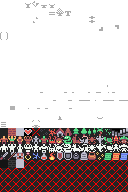
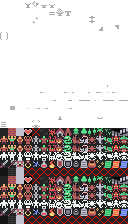
add (idle) animation

diff --git a/game/map_objects/game_map.py b/game/map_objects/game_map.py
@@ -29,7 +29,7 @@ class GameMap:
 
         return tiles
 
-    def make_map(self, max_rooms, room_min_size, room_max_size, map_width, map_height, player, entities):
+    def make_map(self, max_rooms, room_min_size, room_max_size, map_width, map_height, player, entities, fcd):
         rooms = []
         num_rooms = 0
 
@@ -84,14 +84,14 @@ class GameMap:
                         self.create_v_tunnel(prev_y, new_y, prev_x)
                         self.create_h_tunnel(prev_x, new_x, new_y)
 
-                self.place_entities(new_room, entities)
+                self.place_entities(new_room, entities, fcd)
 
                 # finally, append the new room to the list
                 rooms.append(new_room)
                 num_rooms += 1
 
         stairs_component = Stairs(self.dungeon_level + 1)
-        down_stairs = Entity(center_of_last_room_x, center_of_last_room_y, STAIRS_DOWN, 'Stairs', render_order=RenderOrder.STAIRS, stairs=stairs_component)
+        down_stairs = Entity(center_of_last_room_x, center_of_last_room_y, [STAIRS_DOWN], 'Stairs', fcd, render_order=RenderOrder.STAIRS, stairs=stairs_component)
         entities.append(down_stairs)
 
     def create_room(self, room):
@@ -111,7 +111,7 @@ class GameMap:
             self.tiles[x][y].blocked = False
             self.tiles[x][y].block_sight = False
 
-    def place_entities(self, room, entities):
+    def place_entities(self, room, entities, fcd):
         max_monsters_per_room = from_dungeon_level([[2, 1], [3, 4], [5, 6]], self.dungeon_level)
         max_items_per_room = from_dungeon_level([[1, 1], [2, 4]], self.dungeon_level)
 
@@ -142,11 +142,11 @@ class GameMap:
                 if monster_choice == 'orc':
                     fighter_component = Fighter(hp=20, defense=0, power=4, xp=35)
                     ai_component = BasicMonster()
-                    monster = Entity(x, y, ORC, 'Orc', blocks=True, render_order=RenderOrder.ACTOR, fighter=fighter_component, ai=ai_component)
+                    monster = Entity(x, y, [ORC, ORC + 16], 'Orc', fcd, blocks=True, render_order=RenderOrder.ACTOR, fighter=fighter_component, ai=ai_component)
                 else:
                     fighter_component = Fighter(hp=30, defense=2, power=8, xp=100)
                     ai_component = BasicMonster()
-                    monster = Entity(x, y, SKELETON, 'Skeleton', blocks=True, render_order=RenderOrder.ACTOR, fighter=fighter_component, ai=ai_component)
+                    monster = Entity(x, y, [SKELETON, SKELETON + 16], 'Skeleton', fcd, blocks=True, render_order=RenderOrder.ACTOR, fighter=fighter_component, ai=ai_component)
 
                 entities.append(monster)
 
@@ -158,22 +158,22 @@ class GameMap:
                 item_choice = random_choice_from_dict(item_chances)
                 if item_choice == 'healing_potion':
                     item_component = Item(use_function=heal, amount=40)
-                    item = Entity(x, y, HEALING_POT, 'Healing Potion', render_order=RenderOrder.ITEM, item=item_component)
+                    item = Entity(x, y, [HEALING_POT], 'Healing Potion', fcd, render_order=RenderOrder.ITEM, item=item_component)
                 elif item_choice == 'sword':
                     equippable_component = Equippable(EquipmentSlots.MAIN_HAND, power_bonus=3)
-                    item = Entity(x, y, SWORD, 'Sword', equippable=equippable_component)
+                    item = Entity(x, y, [SWORD], 'Sword', fcd, equippable=equippable_component)
                 elif item_choice == 'shield':
                     equippable_component = Equippable(EquipmentSlots.OFF_HAND, defense_bonus=1)
-                    item = Entity(x, y, SHIELD, 'Shield', equippable=equippable_component)
+                    item = Entity(x, y, [SHIELD], 'Shield', fcd, equippable=equippable_component)
                 elif item_choice == 'fireball_scroll':
                     item_component = Item(use_function=cast_fireball, targeting=True, targeting_message=Message('Left-click a target tile for the fireball, or right-click to cancel.', libtcod.Color(134,167,237)), damage=25, radius=3)
-                    item = Entity(x, y, FIRE_SCROLL, 'Fireball Scroll', render_order=RenderOrder.ITEM, item=item_component)
+                    item = Entity(x, y, [FIRE_SCROLL], 'Fireball Scroll', fcd, render_order=RenderOrder.ITEM, item=item_component)
                 elif item_choice == 'confusion_scroll':
                     item_component = Item(use_function=cast_confuse, targeting=True, targeting_message=Message( 'Left-click an enemy to confuse it, or right-click to cancel.', libtcod.Color(134,167,237)))
-                    item = Entity(x, y, CONF_SCROLL, 'Confusion Scroll', render_order=RenderOrder.ITEM, item=item_component)
+                    item = Entity(x, y, [CONF_SCROLL], 'Confusion Scroll', fcd, render_order=RenderOrder.ITEM, item=item_component)
                 else:
                     item_component = Item(use_function=cast_lightning, damage=40, maximum_range=5)
-                    item = Entity(x, y, LIGHT_SCROLL, 'Lightning Scroll', render_order=RenderOrder.ITEM, item=item_component)
+                    item = Entity(x, y, [LIGHT_SCROLL], 'Lightning Scroll', fcd, render_order=RenderOrder.ITEM, item=item_component)
 
                 entities.append(item)
 
@@ -186,9 +186,10 @@ class GameMap:
     def next_floor(self, player, message_log, constants):
         self.dungeon_level += 1
         entities = [player]
+        fcd = constants['frame_cycle_duration']
 
         self.tiles = self.initialize_tiles()
-        self.make_map(constants['max_rooms'], constants['room_min_size'], constants['room_max_size'], constants['map_width'], constants['map_height'], player, entities)
+        self.make_map(constants['max_rooms'], constants['room_min_size'], constants['room_max_size'], constants['map_width'], constants['map_height'], player, entities, fcd)
 
         player.fighter.heal(player.fighter.max_hp // 2)
 

diff --git a/game/render_functions.py b/game/render_functions.py
@@ -42,7 +42,7 @@ def render_health(panel, x, y, name, value, maximum, good_color, ok_color, bad_c
     libtcod.console_print_ex(panel, x + 6, y, libtcod.BKGND_NONE, libtcod.LEFT, '{}'.format(maximum))
     libtcod.console_set_default_foreground(panel, default_color)
 
-def render_all(con, panel, entities, player, game_map, fov_map, message_log, screen_width, screen_height, panel_height, panel_y, mouse, game_state):
+def render_all(con, panel, entities, player, game_map, fov_map, message_log, screen_width, screen_height, panel_height, panel_y, mouse, game_state, current_frame_time):
     for y in range(game_map.height):
         for x in range(game_map.width):
             visible = libtcod.map_is_in_fov(fov_map, x, y)
@@ -56,14 +56,14 @@ def render_all(con, panel, entities, player, game_map, fov_map, message_log, scr
                 game_map.tiles[x][y].explored = True
             elif game_map.tiles[x][y].explored:
                 if wall:
-                    libtcod.console_put_char(con, x, y, WALL + 64, libtcod.BKGND_NONE)
+                    libtcod.console_put_char(con, x, y, WALL + 80, libtcod.BKGND_NONE)
                 else:
-                    libtcod.console_put_char(con, x, y, FLOOR + 64, libtcod.BKGND_NONE)
+                    libtcod.console_put_char(con, x, y, FLOOR + 80, libtcod.BKGND_NONE)
 
     # Draw all entities in the list
     entities_in_render_order = sorted(entities, key=lambda x: x.render_order.value)
     for entity in entities_in_render_order:
-        draw_entity(con, entity, fov_map, game_map)
+        draw_entity(con, entity, fov_map, game_map, current_frame_time)
 
     libtcod.console_blit(con, 0, 0, screen_width, screen_height, 0, 0, 0)
 
@@ -100,7 +100,7 @@ def render_all(con, panel, entities, player, game_map, fov_map, message_log, scr
     elif game_state == GameStates.CHARACTER_SCREEN:
         character_screen(player, 30, 10, screen_width, screen_height)
 
-def draw_entity(con, entity, fov_map, game_map):
+def draw_entity(con, entity, fov_map, game_map, current_frame_time):
     if libtcod.map_is_in_fov(fov_map, entity.x, entity.y) or (entity.stairs and game_map.tiles[entity.x][entity.y].explored):
-        libtcod.console_put_char(con, entity.x, entity.y, entity.char, libtcod.BKGND_NONE)
+        libtcod.console_put_char(con, entity.x, entity.y, entity.get_tile(current_frame_time), libtcod.BKGND_NONE)
 

diff --git a/main.py b/main.py
@@ -30,23 +30,30 @@ def play_game(player, entities, game_map, message_log, game_state, con, panel, c
     previous_game_state = game_state
     targeting_item = None
 
-    MAX_DELTA = 0.01
+    frame_cycle_duration = constants['frame_cycle_duration']
+    current_frame_time = 0
+
+    max_delta = constants['max_delta']
     last_tick = time.time()
     while not libtcod.console_is_window_closed():
         tick = time.time()
         delta = tick - last_tick
         last_tick = tick
 
+        current_frame_time += delta
+        if current_frame_time > frame_cycle_duration:
+            current_frame_time -= frame_cycle_duration
+
         if fov_recompute:
             recompute_fov(fov_map, player.x, player.y, constants['fov_radius'], constants['fov_light_walls'], constants['fov_algorithm'])
 
-        render_all(con,panel,entities, player, game_map, fov_map, message_log, constants['screen_width'], constants['screen_height'], constants['panel_height'], constants['panel_y'], mouse, game_state)
+        render_all(con,panel, entities, player, game_map, fov_map, message_log, constants['screen_width'], constants['screen_height'], constants['panel_height'], constants['panel_y'], mouse, game_state, current_frame_time)
         fov_recompute = False
 
         libtcod.console_flush()
 
-        if delta < MAX_DELTA:
-            time.sleep(MAX_DELTA - delta)
+        if delta < max_delta:
+            time.sleep(max_delta - delta)
 
         #NOTE: we may not be rescheduled *exactly* after (MAX_DELTA - delta) seconds, but we do not care :p
 
@@ -258,7 +265,7 @@ def play_game(player, entities, game_map, message_log, game_state, con, panel, c
 def main():
     constants = get_constants()
 
-    libtcod.console_set_custom_font('res/tiles.png', libtcod.FONT_TYPE_GREYSCALE | libtcod.FONT_LAYOUT_CP437, 16, 24)
+    libtcod.console_set_custom_font('res/tiles.png', libtcod.FONT_TYPE_GREYSCALE | libtcod.FONT_LAYOUT_CP437, 16, 28)
     libtcod.console_init_root(constants['screen_width'], constants['screen_height'], constants['window_title'], True)
 
     con = libtcod.console_new(constants['screen_width'], constants['screen_height'])
@@ -266,7 +273,7 @@ def main():
 
     # load tiles
     idx = 256
-    for y in range(16, 24):
+    for y in range(16, 28):
         libtcod.console_map_ascii_codes_to_font(idx, 16, 0, y)
         idx += 16
 

diff --git a/game/loader_functions/initialize_new_game.py b/game/loader_functions/initialize_new_game.py
@@ -40,6 +40,10 @@ def get_constants():
     max_monsters_per_room = 3
     max_items_per_room = 2
 
+    max_delta = 0.01
+
+    frame_cycle_duration = 1.5
+
     constants = {
         'window_title': window_title,
         'screen_width': screen_width,
@@ -59,6 +63,8 @@ def get_constants():
         'fov_radius': fov_radius,
         'max_monsters_per_room': max_monsters_per_room,
         'max_items_per_room': max_items_per_room,
+        'max_delta': max_delta,
+        'frame_cycle_duration': frame_cycle_duration,
     }
 
     return constants
@@ -67,17 +73,18 @@ def get_game_variables(constants):
     fighter_component = Fighter(hp=100, defense=1, power=2)
     inventory_component = Inventory(20)
     level_component = Level()
+    fcd = constants['frame_cycle_duration']
     equipment_component = Equipment()
-    player = Entity(0, 0, PLAYER, 'Player', blocks=True, render_order=RenderOrder.ACTOR, fighter=fighter_component, inventory=inventory_component, level=level_component, equipment=equipment_component)
+    player = Entity(0, 0, [PLAYER, PLAYER + 16], 'Player', fcd, blocks=True, render_order=RenderOrder.ACTOR, fighter=fighter_component, inventory=inventory_component, level=level_component, equipment=equipment_component)
     entities = [player]
 
     equippable_component = Equippable(EquipmentSlots.MAIN_HAND, power_bonus=2)
-    axe = Entity(0, 0, AXE, 'Axe', equippable=equippable_component)
+    axe = Entity(0, 0, [AXE], 'Axe', fcd, equippable=equippable_component)
     player.inventory.add_item(axe)
     player.equipment.toggle_equip(axe)
 
     game_map = GameMap(constants['map_width'], constants['map_height'])
-    game_map.make_map(constants['max_rooms'], constants['room_min_size'], constants['room_max_size'], constants['map_width'], constants['map_height'], player, entities)
+    game_map.make_map(constants['max_rooms'], constants['room_min_size'], constants['room_max_size'], constants['map_width'], constants['map_height'], player, entities, fcd)
 
     message_log = MessageLog(constants['message_x'], constants['message_width'], constants['message_height'])
 

diff --git a/game/entity.py b/game/entity.py
@@ -1,4 +1,5 @@
 import math
+import random
 import tcod as libtcod
 
 from render_functions import RenderOrder
@@ -8,10 +9,10 @@ class Entity:
     """
     A generic object to represent players, enemies, items, etc.
     """
-    def __init__(self, x, y, char, name, blocks=False, render_order=RenderOrder.CORPSE, fighter=None, ai=None, item=None, inventory=None, stairs=None, level=None, equipment=None, equippable=None):
+    def __init__(self, x, y, tiles, name, fcd, blocks=False, render_order=RenderOrder.CORPSE, fighter=None, ai=None, item=None, inventory=None, stairs=None, level=None, equipment=None, equippable=None):
         self.x = x
         self.y = y
-        self.char = char
+        self.tiles = tiles
         self.name = name
         self.blocks = blocks
         self.render_order = render_order
@@ -23,6 +24,9 @@ class Entity:
         self.level = level
         self.equipment = equipment
         self.equippable = equippable
+        self.fcd = fcd
+        self.idle_offset = random.uniform(0, fcd / 2)
+        self.current_frame = 0
 
         if self.fighter:
             self.fighter.owner = self
@@ -120,6 +124,17 @@ class Entity:
 
     def distance(self, x, y):
         return math.sqrt((x - self.x) ** 2 + (y - self.y) ** 2)
+
+    def get_tile(self, current_frame_time):
+        if len(self.tiles) == 1:
+            return self.tiles[0]
+
+        if current_frame_time > self.idle_offset and current_frame_time < self.idle_offset + self.fcd / 2:
+            self.current_frame = 1
+        else:
+            self.current_frame = 0
+
+        return self.tiles[self.current_frame]
 
 def get_blocking_entities_at_location(entities, destination_x, destination_y):
     for entity in entities:

diff --git a/game/death_functions.py b/game/death_functions.py
@@ -6,13 +6,13 @@ from render_functions import RenderOrder
 from loader_functions.tiles import *
 
 def kill_player(player):
-    player.char = CORPSE
+    player.tiles = [CORPSE]
     return Message('You died!', libtcod.Color(235,86,75)), GameStates.PLAYER_DEAD
 
 def kill_monster(monster):
     death_message = Message('{0} is dead!'.format(monster.name.capitalize()), libtcod.Color(235,86,75))
 
-    monster.char = CORPSE
+    monster.tiles = [CORPSE]
     monster.blocks = False
     monster.fighter = None
     monster.ai = None

diff --git a/game/loader_functions/tiles.py b/game/loader_functions/tiles.py
@@ -7,12 +7,12 @@ ORC          = 277
 SKELETON     = 276
 STAIRS_DOWN  = 270
 CORPSE       = 262
-SWORD        = 304
-AXE          = 305
-SHIELD       = 311
-HEALING_POT  = 309
-CONF_SCROLL  = 317
-FIRE_SCROLL  = 317
-LIGHT_SCROLL = 317
+SWORD        = 320
+AXE          = 321
+SHIELD       = 327
+HEALING_POT  = 325
+CONF_SCROLL  = 333
+FIRE_SCROLL  = 334
+LIGHT_SCROLL = 335
 HEART        = 259
 
